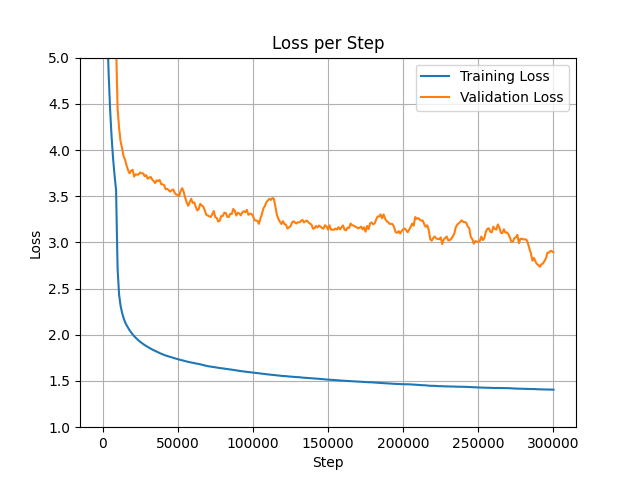
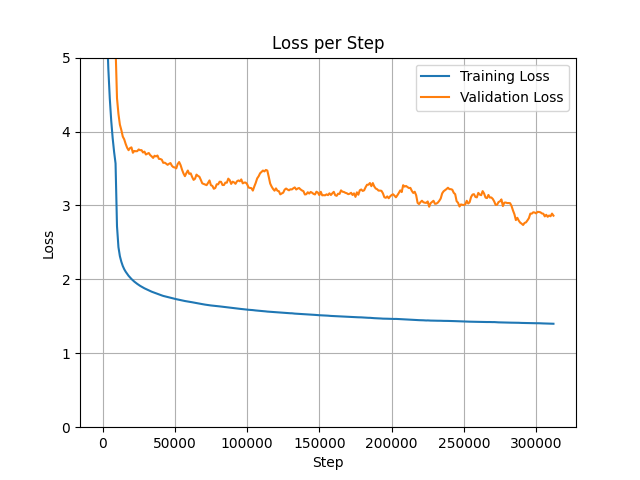
Change plot layout

diff --git a/plot_logs.py b/plot_logs.py
@@ -9,7 +9,7 @@ for logfile in os.listdir("logs"):
         continue
 
     df = pd.read_csv('logs/' + logfile)
-    df = df[df['step'] <= 300000]
+    # df = df[df['step'] <= 300000]
     df['loss_running_avg'] = df['loss'].rolling(window=WINDOW_SIZE, min_periods=1).mean()
     df['val_loss_running_avg'] = df['val_loss'].rolling(window=WINDOW_SIZE, min_periods=1).mean()
 
@@ -21,5 +21,5 @@ for logfile in os.listdir("logs"):
     plt.title('Loss per Step')
     plt.grid(True)
     plt.legend()
-    plt.ylim(1, 5)
+    plt.ylim(0, 5)
     plt.savefig('logs/' + logfile.replace("csv", "png"))
